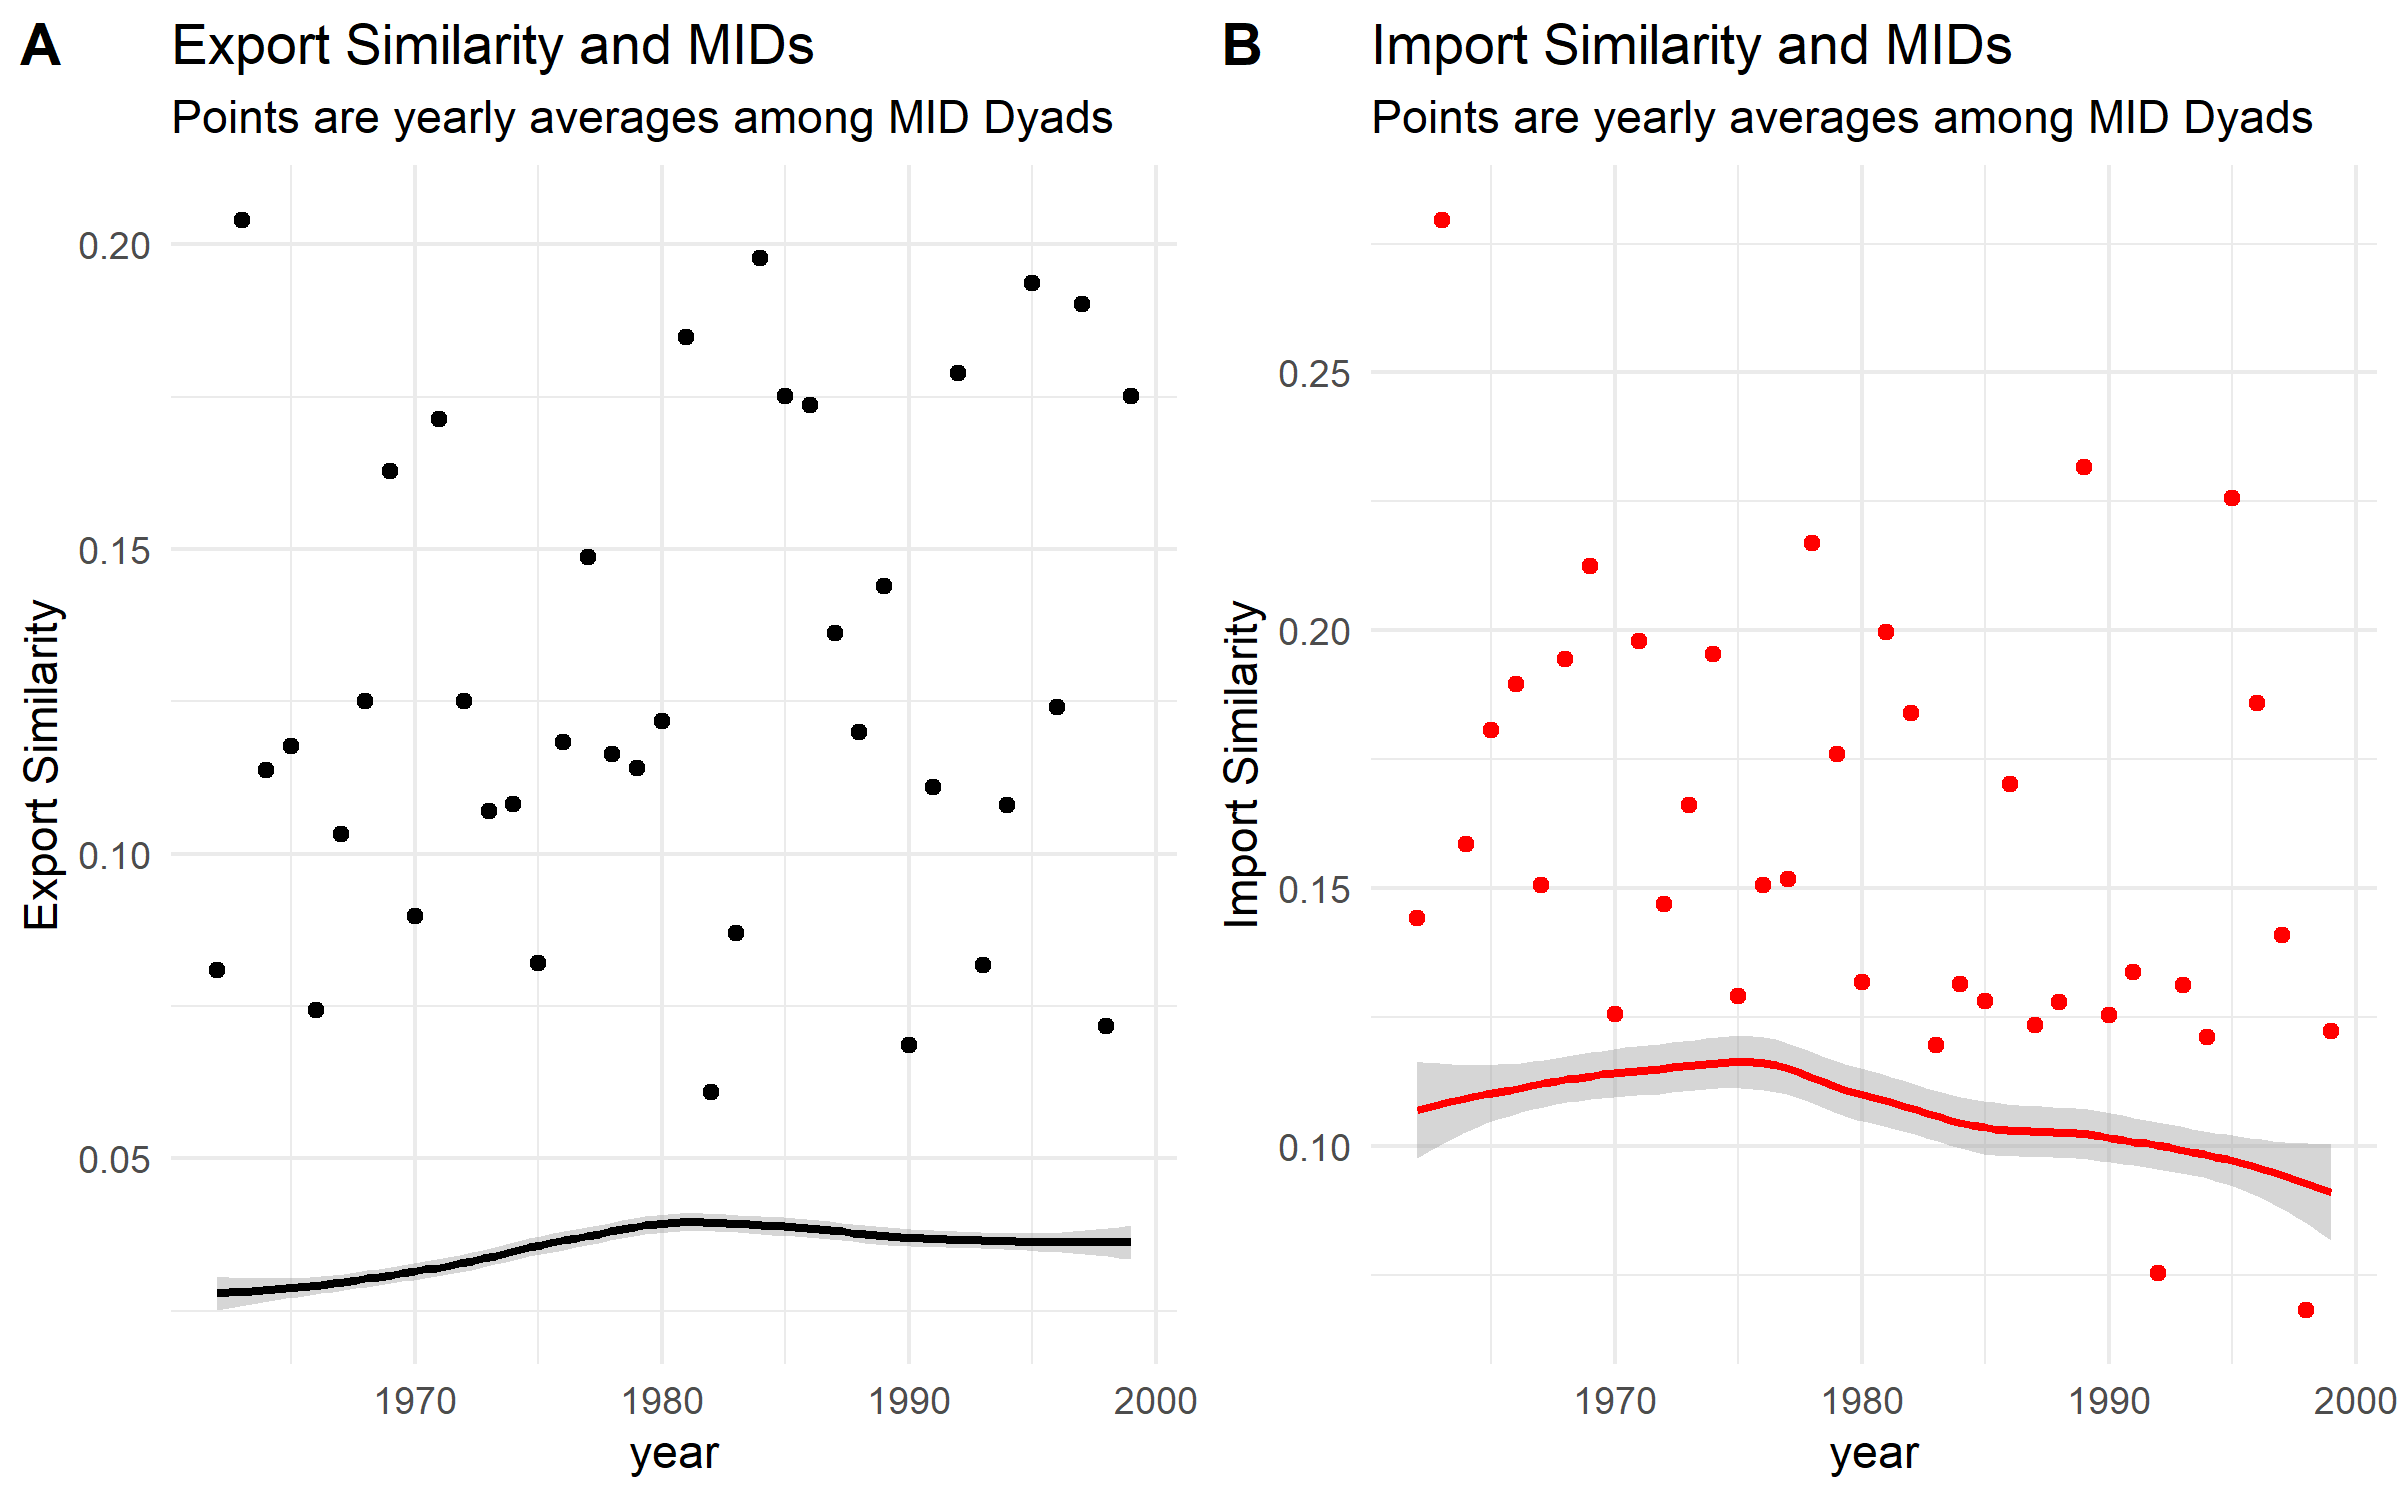
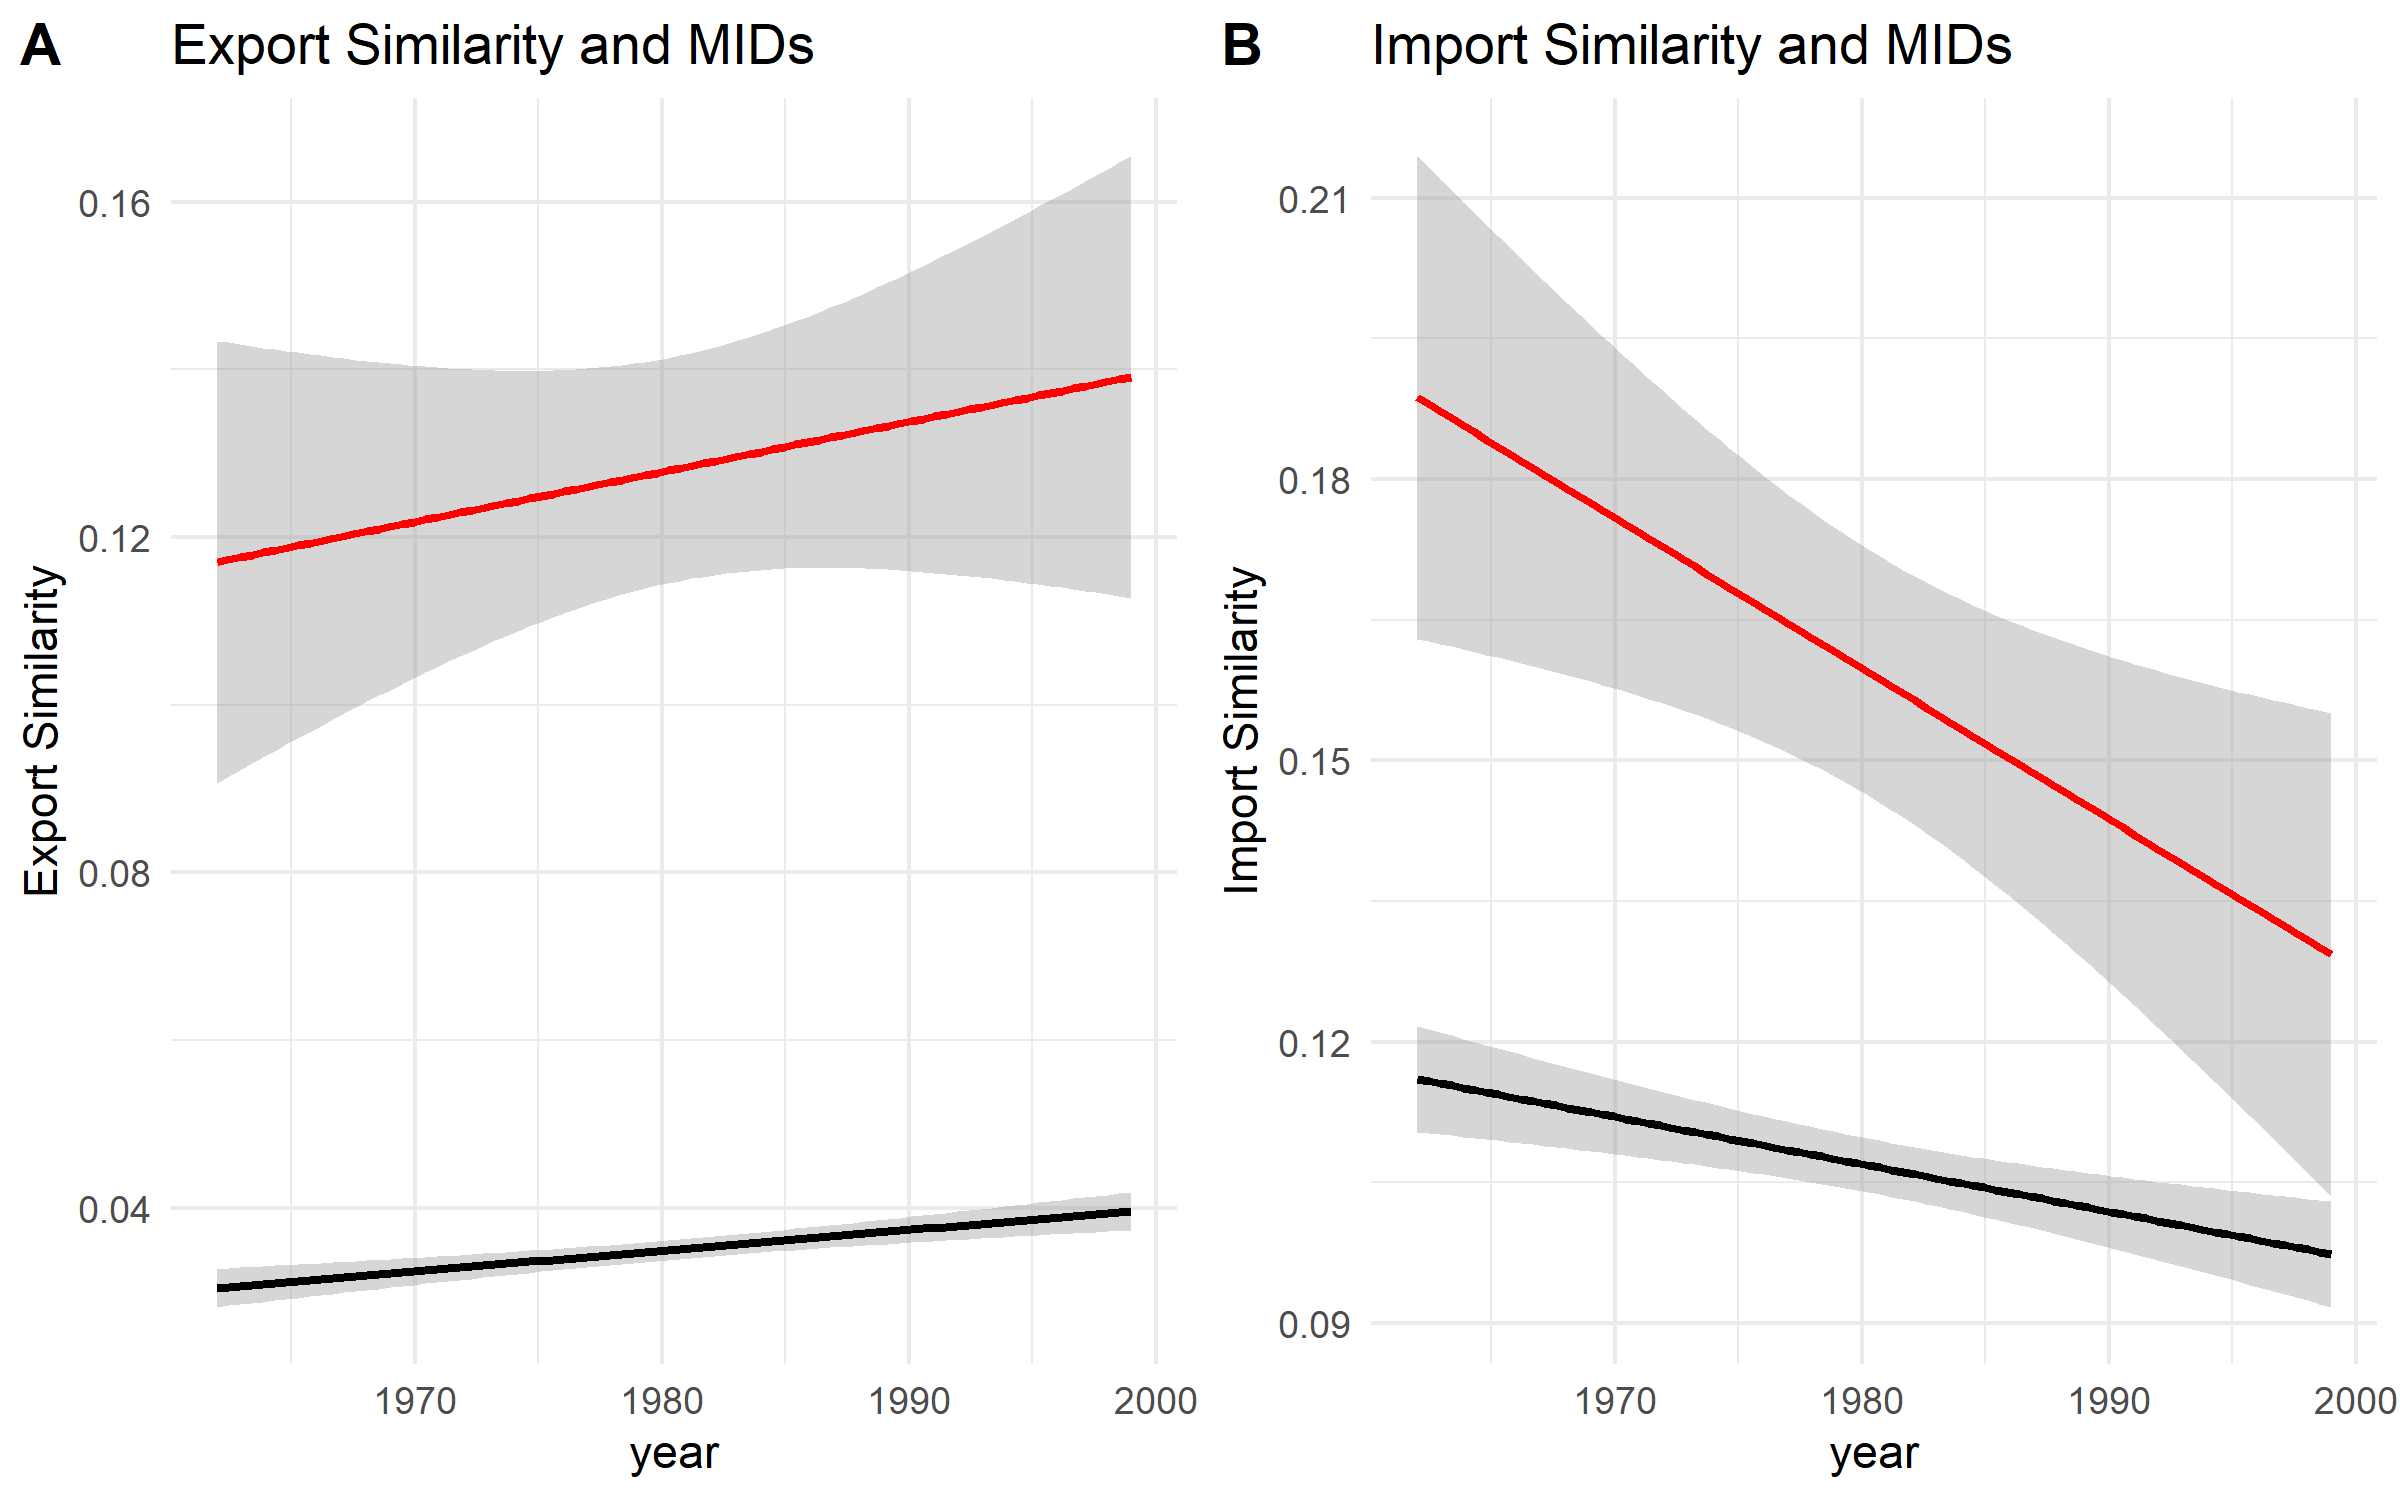
Update ExpImpSim.png
Change ExpImpSim.png to be less confusing. Update README.md to reflect changes in that chart.

diff --git a/README.md b/README.md
@@ -15,7 +15,7 @@ Chatagnier and Kavakli 2017 show that countries which export similar goods fight
 
 ![](https://github.com/Chris-FSU/Trade.War/blob/master/fig/ExpImpSim.png)
 
-Among dyads engaged in a MID (shown with points), export similarity and import similarity are both higher than the averages among non-MID dyads (shown with shaded lines).
+Among dyads engaged in a MID (red line), export similarity and import similarity are both higher than the averages among non-MID dyads (black line).
 
 So far, the response to the first two questions is that countries who fight have more similar exports and imports than countries who do not fight. This suggests, but does not prove, that countries who export and import similar goods fight more.
 
